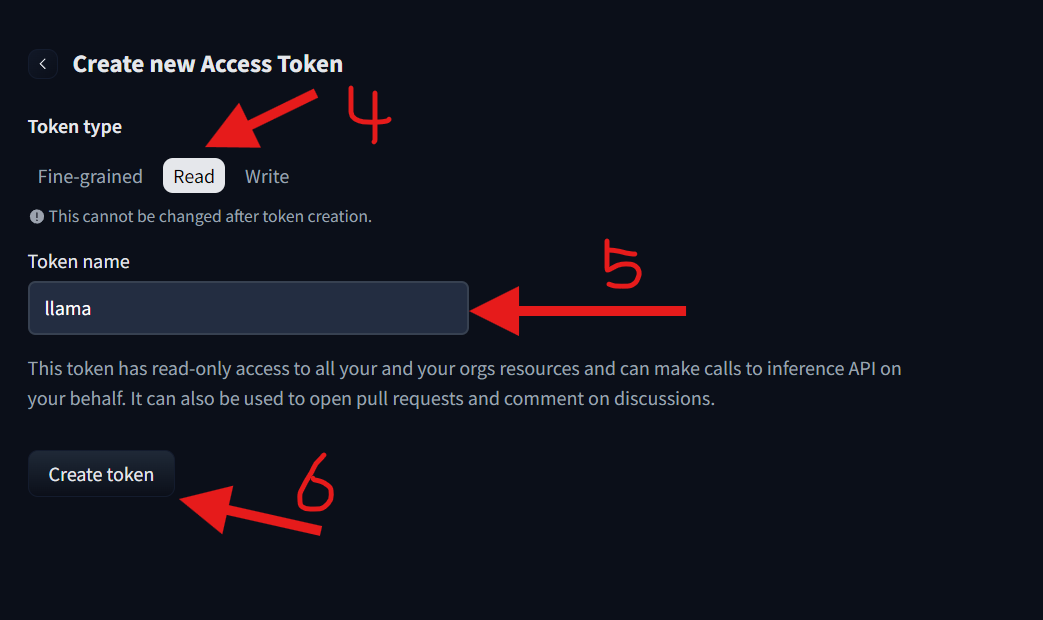
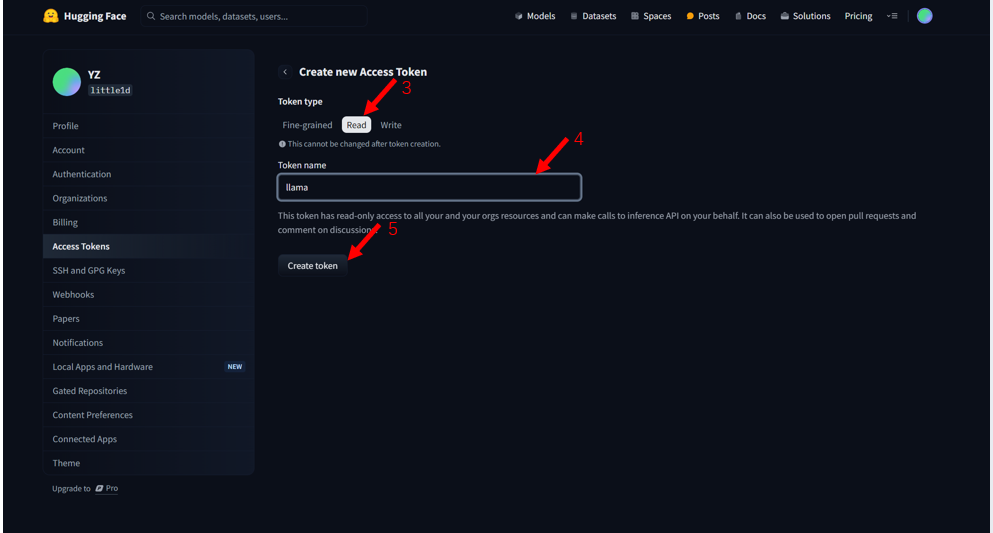
bugFix(C3)：image and some details

diff --git a/docs/C3/1. 自定义导入模型.md b/docs/C3/1. 自定义导入模型.md
@@ -113,7 +113,7 @@ llama.cpp是GGUF的开源项目，提供CLI和Server功能。
 ### 3.1 从HuggingFace下载Model
 
 最直觉的下载方式是通过git clone或者链接来下载，但是因为llm每部分都按GB计算，避免出现`OOM Error(Out of memory)`，我们可以使用Python写一个简单的download.py
-首先应该去hf拿到用户个人的`ACCESS_TOKEN`，打开 huggingface 。
+首先应该去hf拿到用户个人的`ACCESS_TOKEN`，打开 huggingface个人设置页面。
 
 ![alt text](../images/C3-3-1.png)
 
